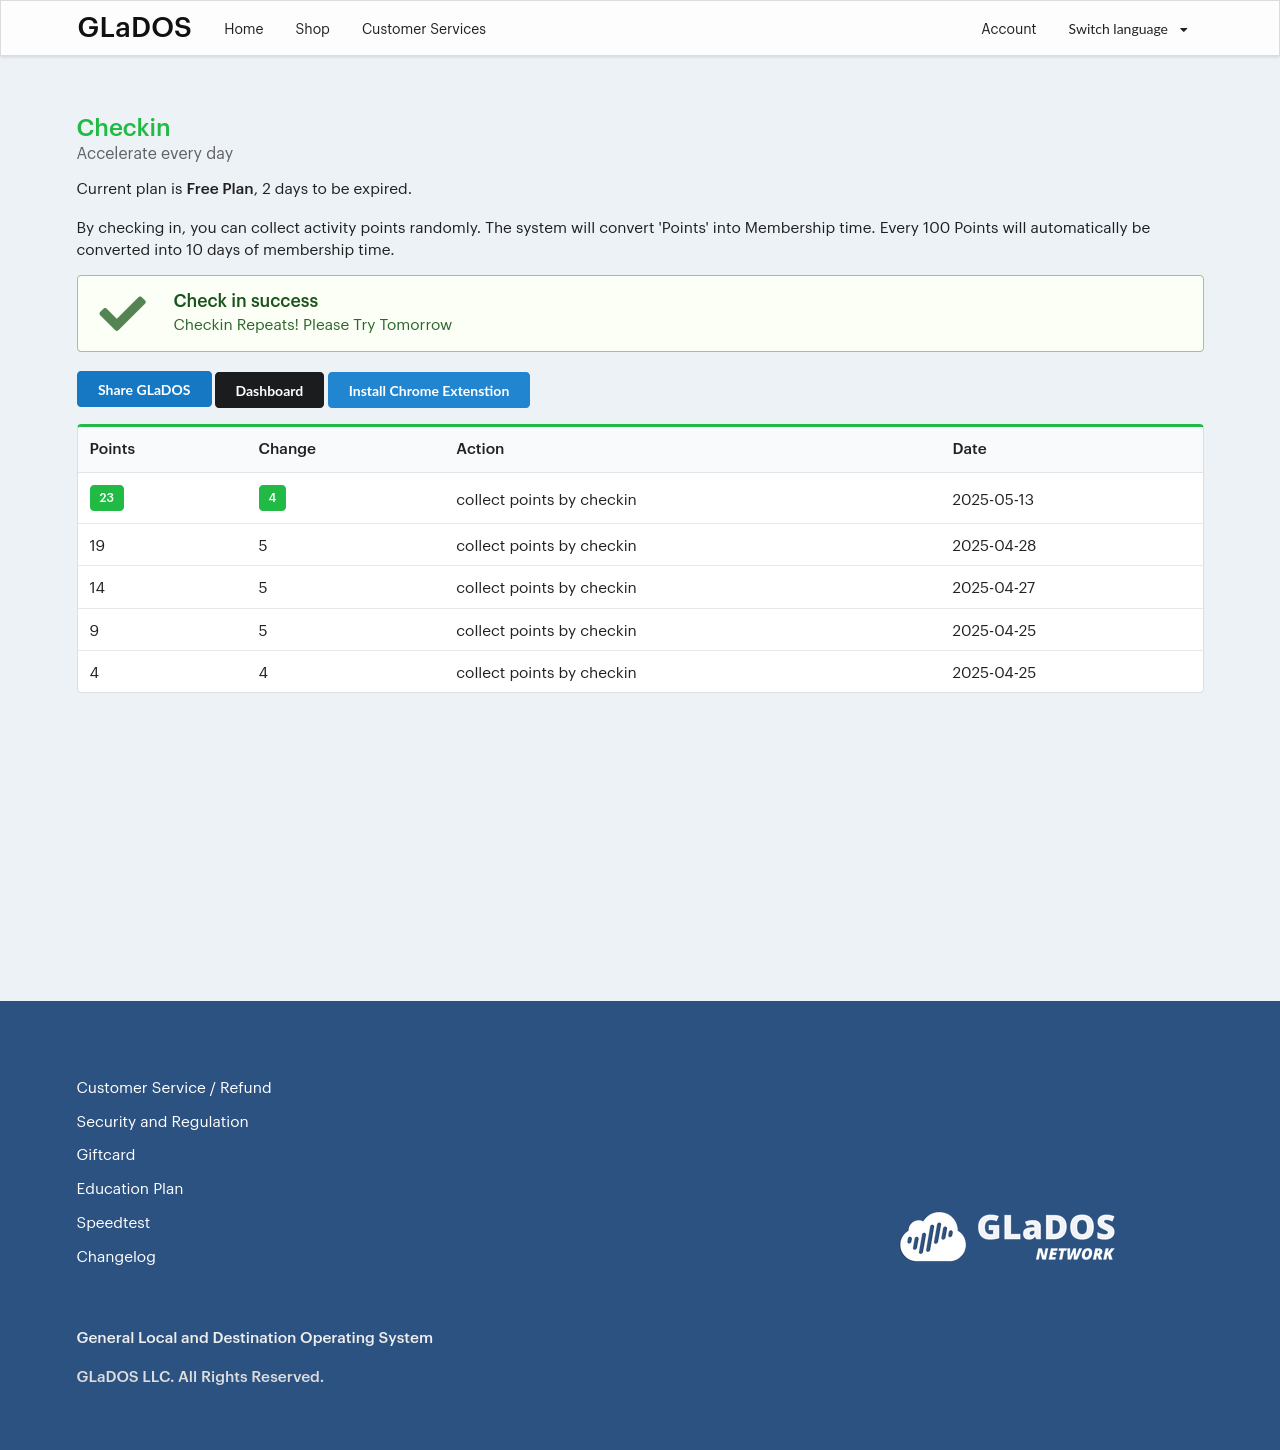
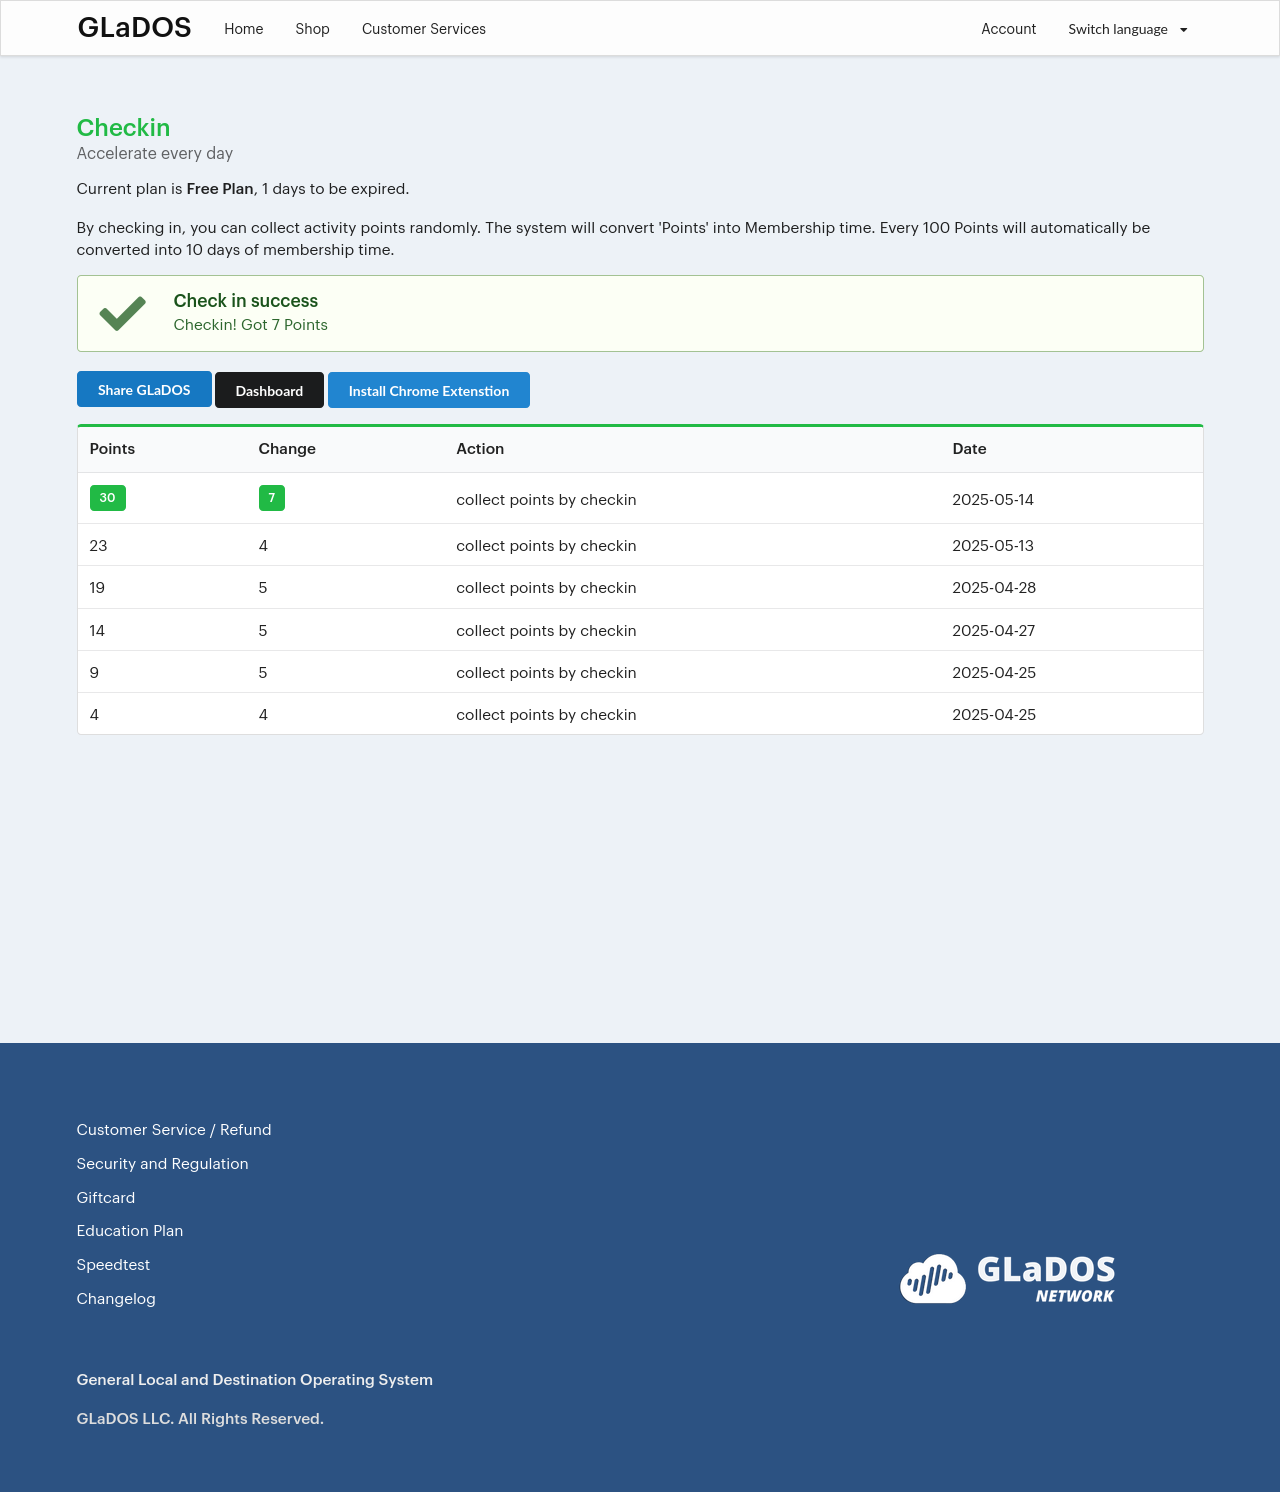
自动签到 2025-05-14

diff --git a/README.md b/README.md
@@ -1,5 +1,5 @@
 ![GitHub Actions](https://github.com/stx-x/misc-actions/workflows/GLADOS%20自动签到/badge.svg)
 
 ## GLADOS 最近签到截图
-GLADOS 最近更新时间: 2025-05-13 18:41:05
+GLADOS 最近更新时间: 2025-05-14 17:34:09
 ![最近签到截图](glados/checkin.png)
